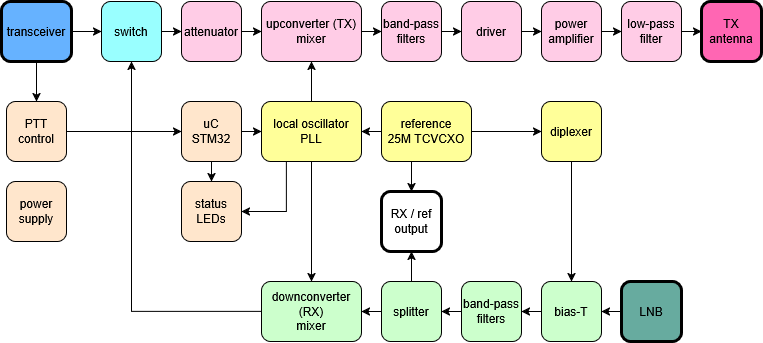
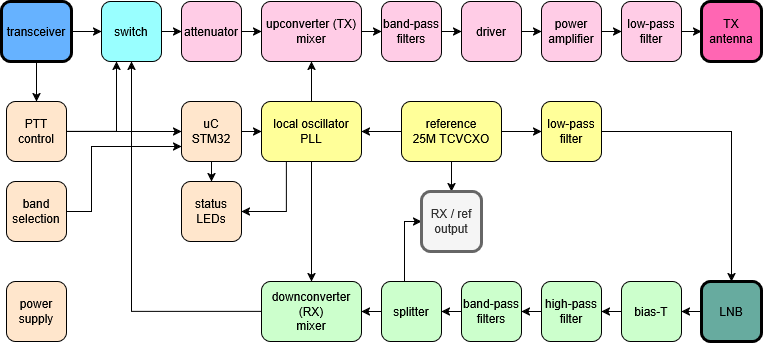
block diagram updated readme updated

diff --git a/README.md b/README.md
@@ -292,7 +292,7 @@ Combines use cases 2 and 3: LNB gets its reference via coax, AUX socket carries 
 </tr>
 </table>
 
-### Input characterisitics
+### TRX port
 
 <table>
 <tr>